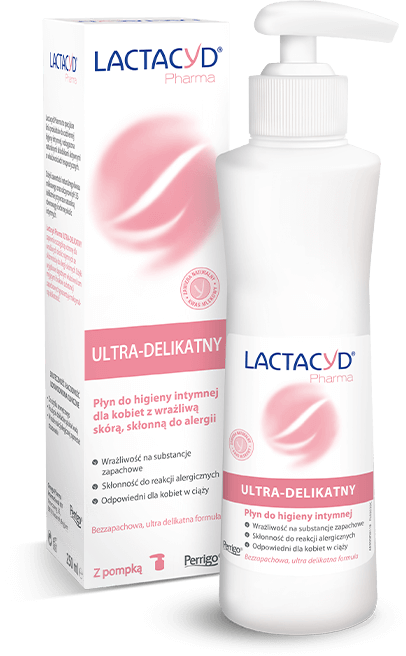
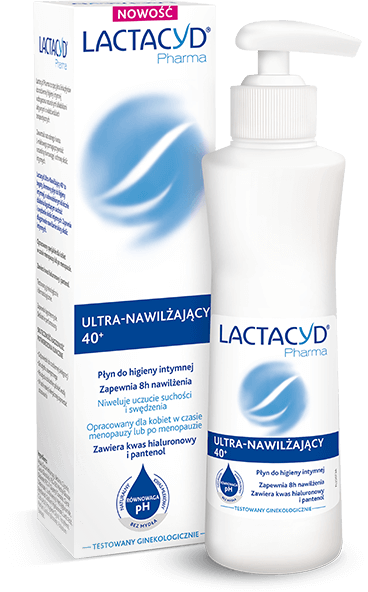
add markup

diff --git a/index.html b/index.html
@@ -30,69 +30,83 @@
                 </div>
             </div>
             <div class="es-kv__descCtn">
-                <p class="es-kv__subtitle">Płyn do higieny intymnej <br> Lactacyd® Pharma <br> Ultra-Delikatny </p>
+                <p class="es-kv__subtitle">Płyn do higieny intymnej <br> Lactacyd® Pharma <br> Ultra-Nawilżający 40+ </p>
                 <p class="es-kv__desc">
-                    zapewnia wyjątkową ochronę dla wrażliwych okolic intymnych ze <br>
-                    skłonnością do alergii skórnych. Formuła została wzbogacona o naturalny <br>
-                    kwas L-mlekowy i delikatne substancje myjące oraz pozbawiona składników <br>
-                    zapachowych mogących wywoływać podrażnienia. 
+                    bogaty, kremowy płyn do higieny intymnej o udowodnionym klicznicznie działaniu
+                    łagodzącym suchość i swędzenie okolic intymnych. Formuła wzbogacona o kwas 
+                    hialuronowy, pantenol oraz naturalny kwas mlekowy została opracowana 
+                    specjalnie dla kobiet dojrzałych w okresie menopauzy i po menopauzie. 
                     </p>
             </div>
-            <p class="es-kv__claim">* Badanie ankietowe, Adliner, May 2019, n=200.</p>
+            <p class="es-kv__claim">* Badanie ankietowe, Adliner, marzec-kwiecień 2023, n=197.</p>
         </div>
         <div class="es-sectionBreak"></div>
         <div class="es-info">
             <div class="es-info__title">
-                Przeznaczony dla kobiet o wyjątkowej <br>
-                wrażliwości okolic intymnych oraz ze <br>
-                skłonnościami do reakcji alergicznych. 
- 
+               Opracowany specjalnie dla kobiet <br/> w czasie menopauzy i po menopauzie.
             </div>
             <div class="es-info__icons">
                 <div class="es-info__single">
                     <img src="/assets/img/icon-1.png" alt="" class="es-info__icon">
-                    <p class="es-info__text">Odpowiedni dla skóry <br> wrażliwej</p>
+                    <p class="es-info__text">Wzbogacony o naturalne składniki aktywne - kwas hialuronowy, pantenol i&nbsp;naturalny kwas mlekowy</p>
                 </div>
 
                 <div class="es-info__single">
                     <img src="/assets/img/icon-2.png" alt="" class="es-info__icon">
-                    <p class="es-info__text">Formuła pozbawiona <br> składników <br> zapachowych</p>
+                    <p class="es-info__text">Zapewnia 8h nawilżenia</p>
                 </div>
 
                 <div class="es-info__single">
                     <img src="/assets/img/icon-3.png" alt="" class="es-info__icon">
-                    <p class="es-info__text">Wspomaga utrzymanie <br> 
-                        właściwego pH oraz <br> naturalnej równowagi <br>
-                        okolic intymnych</p>
+                    <p class="es-info__text">Łagodzi uczucie suchości i swędzenia</p>
                 </div>
 
                 <div class="es-info__single">
                     <img src="/assets/img/icon-4.png" alt="" class="es-info__icon">
-                    <p class="es-info__text">Odpowiedni dla <br> kobiet w ciąży</p>
+                    <p class="es-info__text">Testowany dermatologicznie i&nbsp;ginekologicznie</p>
                 </div>
             </div>
         </div>
-
+        <div class="es-formula">
+            <p class="es-formula__title">Bogata formuła wzbogacona o naturalne składniki aktywne</p>
+            <div class="es-formula__ingredientsCtn">
+                <p class="es-formula__ingredient">Pantenol</p>
+                <p class="es-formula__ingredient">Naturalny kwas mlekowy</p>
+                <p class="es-formula__ingredient">Kwas hialuronowy</p>
+            </div>
+        </div>
+        <div class="es-effects">
+            <p class="es-effects__title">Skuteczność potwierdzona przez kobiety w okresie menopauzalnym</p>
+            <div class="es-effects__effectsCtn">
+                <p class="es-effects__effectsCtn--title"><strong><span>100%</span> kobiet potwierdza, że <sup class="es-sup">**</sup>:</strong></p>
+                <ul>
+                    <li>łagodzi suchość i swędzenie okolic intymnych</li>
+                    <li>przynosi uczucie nawilżonej skóry przez cały dzień (8 godzin)</li>
+                </ul>
+                <p class="es-effects__footer"><sup class="es-sup">**</sup>Test samooceny wśród kobiet 50+.</p>
+            </div>
+        </div>
         <div class="es-why">
             <div class="es-why__title">
-                Dlaczego Lactacyd® Pharma <br> o właściwościach antybakteryjnych? 
+                Dlaczego Lactacyd® Pharma <br> Ultra-Nawilżający 40+? 
  
             </div>
             <div class="es-why__icons">
                 <div class="es-why__single">
-                    <img src="/assets/img/icon-5.png" alt="" class="es-why__icon es-why__icon--bigger">
+                    <img src="/assets/img/icon-5.png" alt="" class="es-why__icon--bigger">
                     <p class="es-why__text">Zawiera <span>naturalny <br> kwas mlekowy</span></p>
                 </div>
 
                 <div class="es-why__single">
-                    <img src="/assets/img/icon-6.png" alt="" class="es-why__icon">
-                    <p class="es-why__text"> <span>Gwarantuje maksymalną</span> <br>
-                        delikatność dzięki wyjątkowo <br>
-                        łagodnym właściwościom <br>
-                        myjącym i brakowi substancji 
-                        zapachowych</p>
+                    <img src="/assets/img/icon-6.png" alt="" class="es-why__icon--bigger">
+                    <p class="es-why__text"> Wzbogacony o <span>naturalne składniki aktywne</span></p>
+                </div>
+                <div class="es-why__single">
+                    <img src="/assets/img/icon-7.png" alt="" class="es-why__icon--bigger">
+                    <p class="es-why__text"><span>Nr 1 w rekomendacji ginekologów<sup class="es-sup">*</sup>.</span> Skuteczność i łagodność potwierdzone klinicznie</p>
                 </div>
             </div>
+            <p><sup class="es-sup">*</sup>Badanie ankietowe, Adliner, marzec-kwiecień 2023, n=197.</p>
         </div>
         <div class="es-sectionBreak"></div>
         <div class="es-ph">
@@ -112,14 +126,15 @@
                 </div>
                 <img src="/assets/img/ph-value.png" alt="" class="es-ph__img">
                 <p class="es-ph__single es-ph__single--ph">Wartość pH</p>
+                <p class="es-ph__single es-ph__single--woda">Woda</p>
+                <p class="es-ph__single es-ph__single--mydlo">Mydło</p>
             </div>
         </div>
         <div class="es-sectionBreak"></div>
         <div class="es-cross">
             <p class="es-cross__title">Wybierz odpowiedni wariant dla siebie</p>
             <p class="es-cross__subtitle">
-                Pielęgnacja intymna dla kobiet ze skłonnością <br>
-                do infekcji bakteryjnych i grzybiczych**
+                Higiena intymna podczas leczenia infekcji <sup class="es-sup">***</sup>
             </p>
             <div class="es-cross__ctn">
                 <div class="es-cross__single">
@@ -223,8 +238,8 @@
             </div>
 
             <div class="es-footer">
-                <p class="es-footer__claim">** Produkt nie ma właściwości leczniczych. </p>
-                <p class="es-footer__number">LACT/ZK/2022/646</p>
+                <p class="es-footer__claim">*** Produkt nie ma właściwości leczniczych. </p>
+                <p class="es-footer__number">LACT/ZK/2023/483</p>
             </div>
         </div>
 
